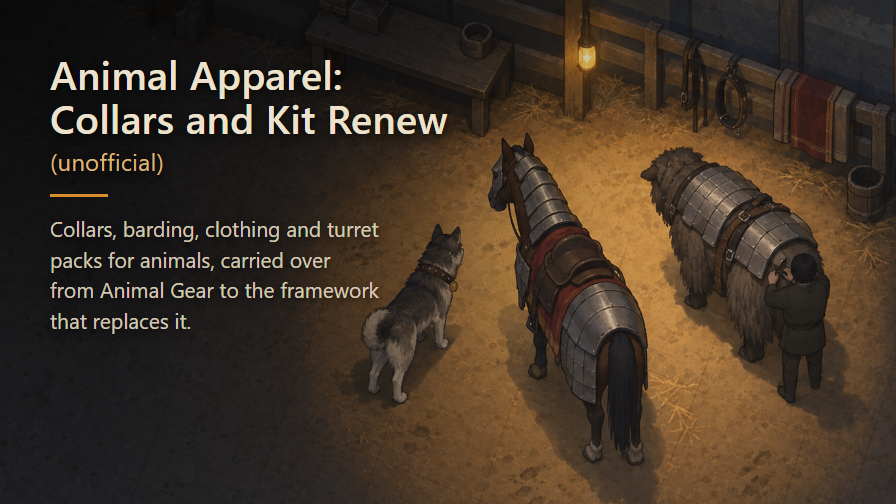
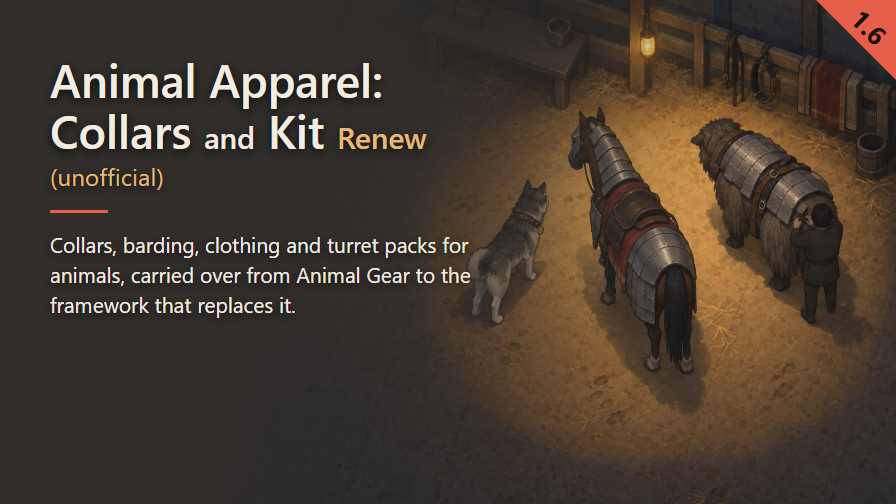
Recompose preview with title hierarchy and image-derived palette

diff --git a/Art/preview.html b/Art/preview.html
@@ -1,0 +1,52 @@
+<!doctype html>
+<html lang="en"><meta charset="utf-8"><title>Animal Apparel preview</title>
+<style>
+* { box-sizing: border-box; }
+html, body, h1, p { margin: 0; padding: 0; }
+body { width:896px; height:504px; overflow:hidden; font-family:"Segoe UI",system-ui,sans-serif; }
+.frame { position:relative; width:896px; height:504px; background:var(--veil); }
+.frame::before { content:''; position:absolute; top:0; right:0; width:720px; height:600px; background:url('Preview.png') top right / 720px auto no-repeat; mask-image:linear-gradient(to right,transparent 0%,black 25%); }
+.veil { position:absolute; inset:0; background:radial-gradient(ellipse 760px 650px at top left, rgb(var(--veil-rgb) / .94) 0%, rgb(var(--veil-rgb) / .90) 50%, rgb(var(--veil-rgb) / 0) 100%); }
+.text { position:absolute; left:50px; top:54px; color:var(--inkPrimary); text-shadow:0 3px 10px rgb(0 0 0 / .75); }
+h1 { font-size:46px; font-weight:600; line-height:1.1; letter-spacing:0; }
+h1 .link, h1 .suffix { font-size:.65em; }
+h1 .suffix { color:var(--inkSecondary); }
+.tag { margin-top:8px; font-size:24px; font-weight:400; line-height:1.1; letter-spacing:.2px; color:var(--inkSecondary); }
+.rule { width:58px; height:3px; background:var(--accent); margin:20px 0 16px; }
+p { width:430px; font-size:21px; font-weight:400; line-height:1.45; letter-spacing:0; }
+.badge { position:absolute; right:0; top:0; width:80px; height:80px; background:var(--accent); clip-path:polygon(0 0,100% 0,100% 100%); }
+.version { position:absolute; left:869px; top:27px; transform:translate(-50%,-50%) rotate(45deg); font-size:26px; font-weight:700; line-height:1; color:var(--badgeInk); }
+</style>
+<div class="frame"><div class="veil"></div><div class="text">
+<h1 id="title"></h1><div class="tag" id="tag"></div><div class="rule"></div>
+<p id="summary">Collars, barding, clothing and turret packs for animals, carried over from Animal Gear to the framework that replaces it.</p>
+</div><div class="badge"></div><div class="version" id="version"></div></div>
+<script>
+window.ready = (async () => {
+ const palette = await (await fetch('preview-palette.json')).json();
+ for (const [key,value] of Object.entries(palette)) document.documentElement.style.setProperty('--'+key,value);
+ document.documentElement.style.setProperty('--veil-rgb',palette.veil.match(/\w\w/g).map(x=>parseInt(x,16)).join(' '));
+ const metadata = new DOMParser().parseFromString(await (await fetch('../Mod/About/About.xml')).text(),'application/xml');
+ const name = metadata.querySelector('name').textContent;
+ const tag = name.match(/\((unofficial|prohibited)\)$/)?.[0] || '';
+ const title = name.replace(/\s*\((unofficial|prohibited)\)$/, '');
+ const heading = document.querySelector('#title');
+ for (const token of title.split(/(\s+)/)) {
+  if (token === 'and' || token === 'Renew') {
+   const span = document.createElement('span');
+   span.className = token === 'Renew' ? 'suffix' : 'link';
+   span.id = token === 'Renew' ? 'suffix' : 'link';
+   span.textContent = token; heading.append(span);
+  } else { heading.append(document.createTextNode(token)); }
+  if (token.endsWith(':')) heading.append(document.createElement('br'));
+ }
+ document.querySelector('#tag').textContent=tag;
+ if (!tag) document.querySelector('#tag').style.display='none';
+ const versions = [...metadata.querySelectorAll('supportedVersions > li')].map(x=>x.textContent.trim()).filter(x=>/^\d+\.\d+(\.\d+)?$/.test(x));
+ versions.sort((a,b)=>{ const aa=a.split('.').map(Number),bb=b.split('.').map(Number); for(let i=0;i<Math.max(aa.length,bb.length);i++){const d=(bb[i]||0)-(aa[i]||0);if(d)return d;}return 0;});
+ if (!versions.length) throw new Error('No stable supported version declared');
+ document.querySelector('#version').textContent=versions[0];
+ await document.fonts.ready;
+ const img = new Image(); img.src='Preview.png'; await img.decode();
+})();
+</script></html>

diff --git a/_tools/preview.html b/_tools/preview.html
@@ -1,81 +1,1 @@
-<!doctype html>
-<meta charset="utf-8">
-<title>Preview</title>
-<style>
-  /* The page IS the banner: 896 x 504, no margin, no scrollbar. Chrome headless
-     screenshots it at exactly this size, so the text is composed at its final
-     size and the glyphs are never resampled. The background image is the
-     full-resolution source, scaled here rather than beforehand. */
-  html, body { margin: 0; padding: 0; }
-  body { width: 896px; height: 504px; overflow: hidden; }
-
-  /* The source is 1374 x 1145, far squarer than 16:9, so `cover` scales it to
-     the full width and crops 372 rows off the vertical. They all come off the
-     BOTTOM - hence `top left`, not `center`. The bottom third of the source is
-     bare unlit floor, while the top band carries the lamp, the rail and the
-     spare tack hanging on pegs, which is half of what the mod is about. The
-     horse's hooves, the lowest thing that matters, land 70 source rows above
-     the cut. */
-  .frame {
-    position: relative;
-    width: 896px; height: 504px;
-    background: url("../Art/Preview-source.png") top left / cover no-repeat;
-  }
-
-  /* Radial darkening from the top-left corner, so the title sits on a calm
-     ground without a visible rectangle. Values from STYLE_RIMWORLD.md. */
-  .frame::after {
-    content: "";
-    position: absolute; inset: 0;
-    background: radial-gradient(circle at 0% 0%,
-                rgba(6, 5, 4, .86) 0%,
-                rgba(6, 5, 4, 0) 74%);
-  }
-
-  .text {
-    position: absolute; z-index: 1;
-    left: 50px; top: 52px;
-    font-family: "Segoe UI", system-ui, sans-serif;
-    color: #ECE2CD;
-    text-shadow: 0 3px 10px rgba(0, 0, 0, .75);
-  }
-
-  /* 40px, not the usual 46: the second line runs to three words and the empty
-     floor that the title sits on stops where the husky starts. */
-  h1 {
-    margin: 0;
-    font-size: 40px; font-weight: 600; line-height: 1.1;
-    letter-spacing: .2px;
-  }
-
-  .rule {
-    width: 58px; height: 3px;
-    background: #D68F2C;
-    margin: 20px 0 16px;
-  }
-
-  .unofficial {
-    display: block;
-    margin-top: 8px;
-    font-size: 24px;
-    font-weight: 400;
-    color: #DDB579;
-  }
-
-  /* 330px rather than the guide's 430: past that the line would reach the
-     husky, which stands further left in this composition than in most. */
-  p {
-    margin: 0;
-    width: 330px;
-    font-size: 21px; font-weight: 400; line-height: 1.45;
-    color: rgba(236, 226, 205, .88);
-  }
-</style>
-
-<div class="frame">
-  <div class="text">
-    <h1>Animal Apparel:<br>Collars and Kit Renew<span class="unofficial">(unofficial)</span></h1>
-    <div class="rule"></div>
-    <p>Collars, barding, clothing and turret packs for animals, carried over from Animal Gear to the framework that replaces it.</p>
-  </div>
-</div>
+<!doctype html><meta charset="utf-8"><meta http-equiv="refresh" content="0;url=../Art/preview.html"><title>Preview composition moved</title><a href="../Art/preview.html">Composition in Art/preview.html</a>

diff --git a/STATUS.md b/STATUS.md
@@ -67,6 +67,25 @@ these cards are meant to be committed at all.
 
 ## Checked here, and therefore not in `remaining`
 
+- **Preview recomposed on 2026-09-12 using the current shared style guide.**
+  Final: `Mod/About/Preview.png` (896 × 504, 576404 bytes). Unlettered source:
+  `Art/Preview.png`, copied unchanged from the retained `Art/Preview-source.png`;
+  no replacement illustration was generated. Composition: `Art/preview.html`;
+  sole palette: `Art/preview-palette.json`; renderer: `Art/build-preview.cjs`.
+  The veil follows the dark stone/wood surface. The vivid accent comes from the
+  red saddle cloth and straps, with increased saturation and lightness; it contrasts
+  with the dominant ochre family rather than repeating the lamp gold. The secondary ink
+  follows the dominant ochre family of the floor and wood, lightened for the dark veil.
+  Source positioning and a feathered left edge leave the existing summary unobstructed.
+  Chrome confirmed Segoe UI Semibold for the title, Segoe UI for tag/summary and
+  Segoe UI Bold for the badge, after `document.fonts.ready`. Badge version 1.6 is read
+  from the shipped supportedVersions. Full-box minimum contrasts on the rendered
+  text-free background: title 8.87:1, reduced liaison 11.63:1, Renew 7.2:1, tag 5.48:1,
+  summary 5.18:1; badge 5.46:1. Title uses 46 px, with direct 0.65em spans
+  for and (primary ink) and Renew (secondary ink), all at weight 600.
+  Visual checks at 896 × 504 and 268 px wide passed: no clipped text or overlapping
+  text elements; subjects remain visible; title/version identifiable and rule visible.
+  Evidence: `Art/preview-qa.json`, `Art/preview-background.png`, `Art/preview-268.png`.
 - **Offline XML suite passed on 2026-09-12:** 55 XML files and 917 assertions using
   `pwsh -NoProfile -File _tools/test-xml.ps1`. Includes patch fixtures, conditional folders,
   translation targets and local texture paths. A GitHub Actions workflow is provided;
@@ -75,8 +94,8 @@ these cards are meant to be committed at all.
 - **The `About.xml` description claims no in-game testing.** `PUBLISHING_STATE.md` asked for every
   description to be audited on that point before a first upload, because a Steam description never
   reprints. This one is clean: no *tested*, *testing*, *review* or *human direction*.
-- **The showcase is at the sizes actually drawn**: 896x504 for 574 KB, 128x128 for 27 KB, the
-  full-resolution sources under `Art/`, the build chain in `_tools/`.
+- **The showcase is at the sizes actually drawn**: preview dimensions and weight above;
+  unchanged icon 128x128 for 27 KB. Sources and preview build chain are under `Art/`.
 - **The repository is pushed and current.** The local tree and `origin/main` carry the same object.
 
 ## What is left, plainly

diff --git a/Art/README-preview.md b/Art/README-preview.md
@@ -1,0 +1,26 @@
+# Preview composition
+
+`Preview.png` is the unlettered source, copied unchanged from `Preview-source.png`.
+The original is retained. `preview.html` contains the composition and geometry;
+`preview-palette.json` is its only color palette. The title/tag and highest stable
+version are read from the shipped `Mod/About/About.xml`.
+
+Run `node Art/build-preview.cjs` from the repository with Node.js, `playwright`
+and `sharp` available. Set `NODE_PATH` if these packages are provided by an external
+runtime. Chrome defaults to the Windows installation; override with `CHROME_PATH`.
+The script serves repository files on loopback while rendering and closes that server.
+It waits for fonts and the illustration, checks the actual platform fonts through CDP,
+then writes `Mod/About/Preview.png`, `preview-268.png`, `preview-background.png`
+and `preview-qa.json`. The background capture hides text for contrast measurements.
+Minimum contrast is measured over every pixel of each unrotated text bounding box,
+not just its corners; the badge has an opaque background.
+
+The source is composed at 720 px wide, anchored to the right, with a transparent
+left edge blending into the sampled veil color. This leaves room for the 430 px summary.
+The dark veil holds its opacity across the text before fading into the illustration.
+The two-line title uses 46 px. Direct 0.65em spans reduce and (primary ink) and Renew
+(secondary ink), keeping weight 600. The red accent follows the saddle cloth and straps,
+distinct from the dominant ochre secondary ink. All parameters are in HTML.
+
+Visual review at 896 and 268 px remains necessary after changes. The automated box
+checks cannot judge subject overlap or recognize cut glyphs inside a triangle.
